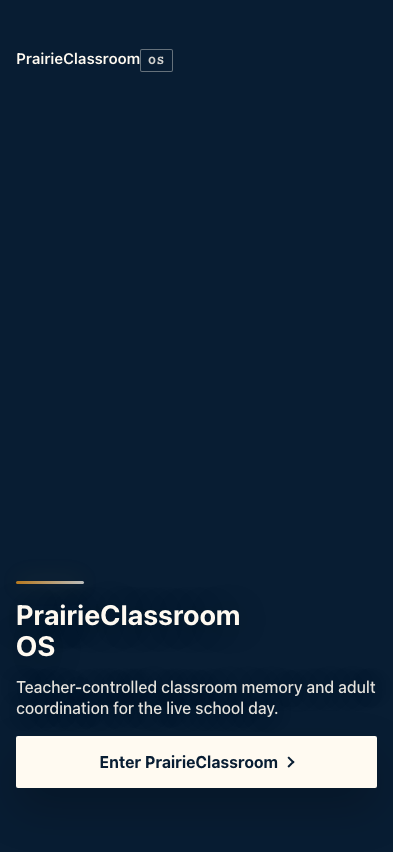
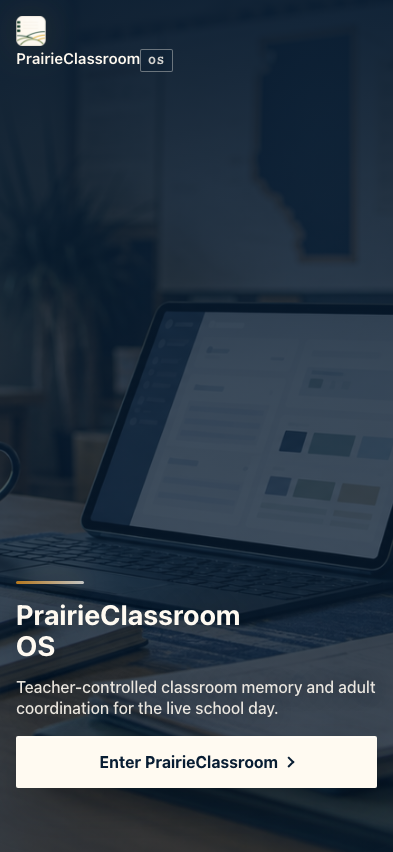
docs: refresh public demo QA evidence

diff --git a/qa/final-release/2026-05-17-continuation-public-demo-qa/README.md b/qa/final-release/2026-05-17-continuation-public-demo-qa/README.md
@@ -5,7 +5,7 @@ Focused live Vercel browser QA for the active submission-readiness goal.
 ## Command
 
 ```bash
-source ~/.nvm/nvm.sh && nvm use >/dev/null && PRAIRIE_QA_OUT_DIR=qa/final-release/2026-05-17-continuation-public-demo-qa node qa/final-release/2026-05-16-pre-submit-e2e/public-demo-check.mjs
+source ~/.nvm/nvm.sh && nvm use >/dev/null && PRAIRIE_QA_OUT_DIR=qa/final-release/2026-05-17-continuation-public-demo-qa PRAIRIE_PUBLIC_DEMO_URL=https://prairieclassroom-os.vercel.app node qa/final-release/2026-05-16-pre-submit-e2e/public-demo-check.mjs
 ```
 
 ## Result
@@ -24,7 +24,7 @@ Evidence:
 
 Covered checks:
 
-- public root renders the first-entry PrairieClassroom OS landing page
+- public root renders the first-entry PrairieClassroom OS landing page with the classroom hero image loaded
 - root CTA enters `?demo=true&tab=today&classroom=demo-okafor-grade34`
 - canonical Today route exposes `documentElement.dataset.demoApi === "prairie-static-demo-api"`
 - static Differentiate generation completes with the static-demo fallback label
